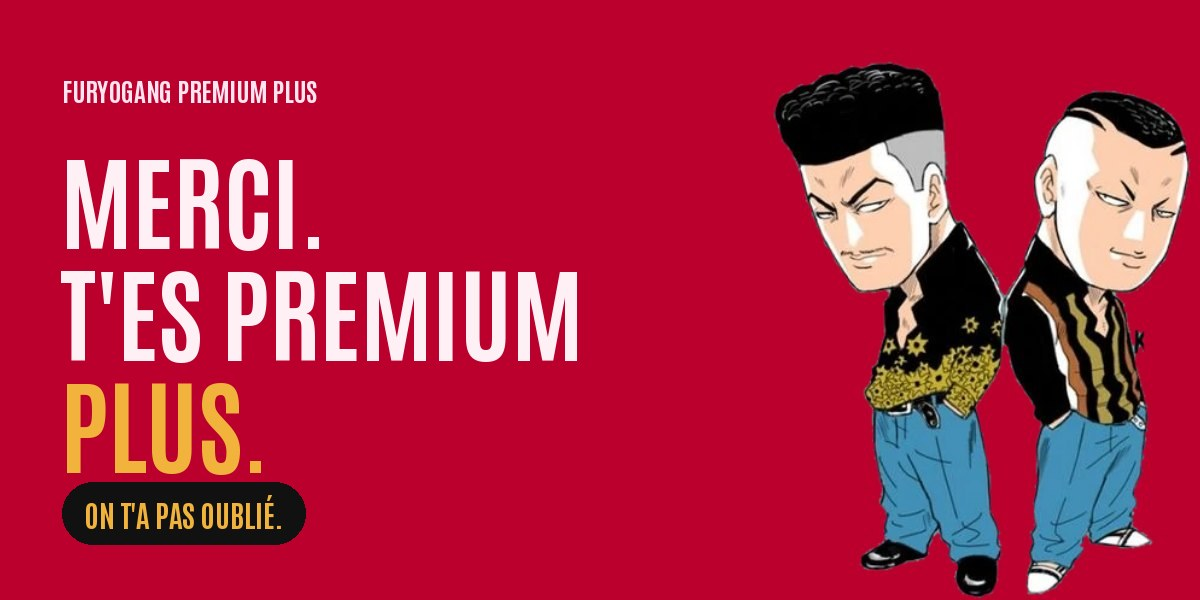
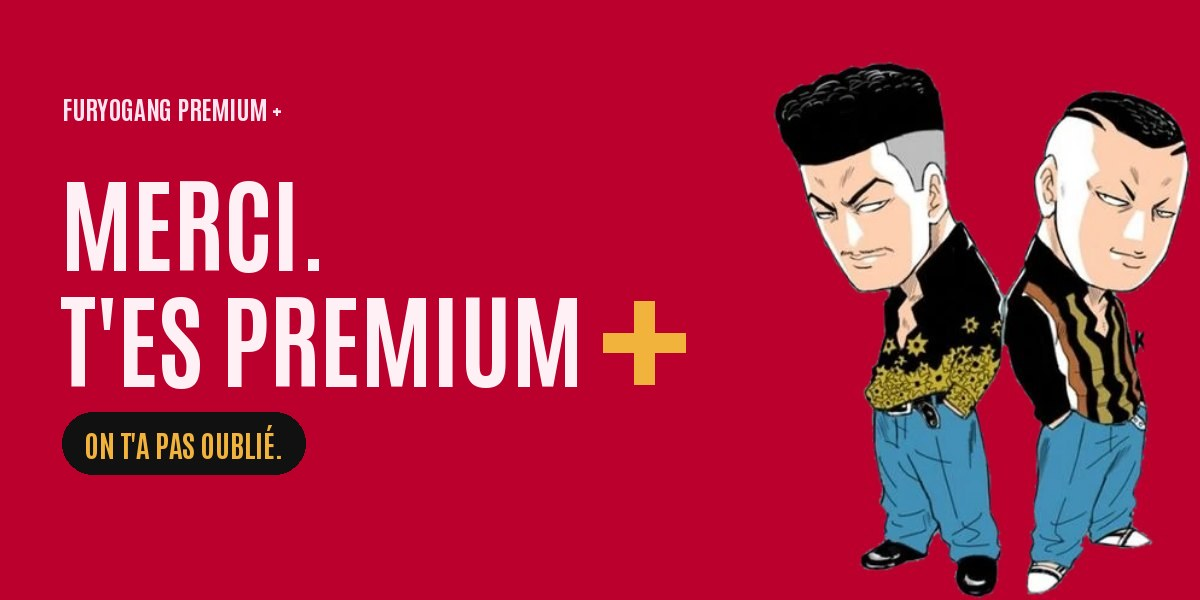
Premium Plus affiché « Premium + » (symbole plus doré) : profil, e-mail, fenêtre, page Premium, QG
Claude-Session: https://claude.ai/code/session_015Y4DU5ofPfgzQmWFYeu5Vg

Changed region(s): [[0.0308, 0.24, 0.5858, 0.93], [0.0308, 0.12, 0.2775, 0.21]]

diff --git a/lib/merci.js b/lib/merci.js
@@ -1,5 +1,5 @@
-// Remerciement des donateurs (Will, 25/10/2026) : e-mail envoyé avec Brevo + fenêtre « Merci, t'es Premium Plus » sur le site.
-// Premium Plus = Premium Donateur (Will, 02/11/2026) : un don de 25 € ou plus donne Premium Plus (1 an par 25 €, 4 ans à 100 €).
+// Remerciement des donateurs (Will, 25/10/2026) : e-mail envoyé avec Brevo + fenêtre « Merci, t'es Premium + » sur le site.
+// Premium + = Premium Donateur (Will, 02/11/2026) : un don de 25 € ou plus donne Premium + (1 an par 25 €, 4 ans à 100 €).
 // Les deux partent tout seuls quand Will enregistre un don dans QG > Premium & dons.
 //   envoyerMerci(env, d)  → { ok, id?, error? }   (secret Cloudflare BREVO_API_KEY ; MAIL_FROM optionnel, défaut contact@furyogang.com)
 //   poserFenetre(env, id, d) → la fenêtre s'ouvrira à la prochaine visite du membre (clé KV « merci:<id> »)
@@ -11,7 +11,7 @@ const eur = n => (Math.round(n * 100) / 100).toLocaleString("fr-FR") + " €";
 const esc = s => String(s == null ? "" : s).replace(/[&<>"']/g, c => ({ "&": "&amp;", "<": "&lt;", ">": "&gt;", '"': "&quot;", "'": "&#39;" }[c]));
 export const cleMerci = id => "merci:" + String(id || "").replace(/-/g, "");
 
-export function sujetMerci(d) { return d.ans ? `Merci ${d.pseudo}, t'es Premium Plus` : `Merci pour ton soutien, ${d.pseudo}`; }
+export function sujetMerci(d) { return d.ans ? `Merci ${d.pseudo}, t'es Premium +` : `Merci pour ton soutien, ${d.pseudo}`; }
 
 export function htmlMerci(d) {
   const P = !!d.ans, F = "font-family:Inter,Helvetica,Arial,sans-serif;";
@@ -20,22 +20,22 @@ export function htmlMerci(d) {
   const av = [0, 2, 4].map(i => `<tr><td width="50%" style="${F}padding:4px 0;font-size:14.5px;color:#D8D8DC"><span style="color:#F2B33D;font-weight:800">✓</span>&nbsp; ${avantages[i]}</td><td width="50%" style="${F}padding:4px 0;font-size:14.5px;color:#D8D8DC"><span style="color:#F2B33D;font-weight:800">✓</span>&nbsp; ${avantages[i + 1]}</td></tr>`).join("");
   const pill = (t, c, bg) => `<span style="${F}display:inline-block;padding:6px 12px;border-radius:15px;background:${bg};color:${c};font-size:13px;font-weight:700;letter-spacing:.04em;margin:0 6px 6px 0">${t}</span>`;
   const intro = P
-    ? `Ton don de <b style="color:#fff">${eur(d.montant)}</b> est bien arrivé. C'est enregistré : <b style="color:#fff">ton Premium Plus est activé pour ${d.ans} an${d.ans > 1 ? "s" : ""}</b>, et ton badge t'attend sur ton profil.`
+    ? `Ton don de <b style="color:#fff">${eur(d.montant)}</b> est bien arrivé. C'est enregistré : <b style="color:#fff">ton Premium + est activé pour ${d.ans} an${d.ans > 1 ? "s" : ""}</b>, et ton badge t'attend sur ton profil.`
     : `Ton don de <b style="color:#fff">${eur(d.montant)}</b> est bien arrivé. C'est enregistré, et ton badge de soutien t'attend sur ton profil.`;
-  const decembre = P && d.debut === "2026-12-01" ? `<p style="${F}margin:14px 0 0;font-size:14px;line-height:1.5;color:#9a9aa0;text-align:center">D'ici le 1er décembre, tout le monde est Premium : ton Premium Plus démarre après, rien n'est perdu.</p>` : "";
+  const decembre = P && d.debut === "2026-12-01" ? `<p style="${F}margin:14px 0 0;font-size:14px;line-height:1.5;color:#9a9aa0;text-align:center">D'ici le 1er décembre, tout le monde est Premium : ton Premium + démarre après, rien n'est perdu.</p>` : "";
   const profil = SITE + (d.slug ? "/membres/" + encodeURIComponent(d.slug) + "/" : "/ma-collection/");
   return `<!doctype html><html lang="fr"><head><meta charset="utf-8"><meta name="viewport" content="width=device-width,initial-scale=1"><meta name="color-scheme" content="dark"><title>${esc(sujetMerci(d))}</title></head>
 <body style="margin:0;padding:0;background:#e9e9ec">
 <table role="presentation" width="100%" cellpadding="0" cellspacing="0" style="background:#e9e9ec"><tr><td align="center" style="padding:28px 12px">
 <table role="presentation" width="600" cellpadding="0" cellspacing="0" style="width:100%;max-width:600px;background:#0b0b0c;border-radius:6px;overflow:hidden">
 <tr><td align="center" style="padding:24px 0 20px;border-bottom:1px solid #222"><img src="${SITE}/img/social/logo-blanc.png" alt="FuryoGang" height="40" style="height:40px;display:block;border:0"></td></tr>
-<tr><td><img src="${SITE}/img/mail/${P ? "merci-premium-plus" : "merci-soutien"}.jpg" width="600" alt="${P ? "Merci. T'es Premium Plus." : "Merci pour ton soutien."}" style="width:100%;height:auto;display:block;border:0"></td></tr>
+<tr><td><img src="${SITE}/img/mail/${P ? "merci-premium-plus" : "merci-soutien"}.jpg" width="600" alt="${P ? "Merci. T'es Premium +." : "Merci pour ton soutien."}" style="width:100%;height:auto;display:block;border:0"></td></tr>
 <tr><td style="padding:30px 36px 8px">
 <p style="${F}margin:0 0 16px;font-size:16px;line-height:1.6;color:#D8D8DC">Yo ${esc(d.pseudo)},</p>
 <p style="${F}margin:0 0 18px;font-size:16px;line-height:1.6;color:#D8D8DC">${intro}</p>
-<div style="margin:0 0 18px">${P ? pill("✚ PREMIUM PLUS", "#F2B33D", "#3a2e12") : ""}${d.badge ? pill("♛ " + esc(d.badge), "#F2B33D", "#3a2e12") : ""}</div>
+<div style="margin:0 0 18px">${P ? pill("✚ PREMIUM +", "#F2B33D", "#3a2e12") : ""}${d.badge ? pill("♛ " + esc(d.badge), "#F2B33D", "#3a2e12") : ""}</div>
 <table role="presentation" width="100%" cellpadding="0" cellspacing="0" style="background:#151517;border-radius:14px"><tr><td style="padding:4px 20px">
-<table role="presentation" width="100%" cellpadding="0" cellspacing="0">${ligne("Ton soutien", eur(d.montant))}${P ? ligne("Premium Plus", "du " + dateLongue(d.debut) + " au " + dateLongue(d.fin)) : ""}${d.num ? ligne("Membre", "n°" + d.num).replace(/border-bottom:1px dashed #2c2c2f;/g, "") : ""}</table>
+<table role="presentation" width="100%" cellpadding="0" cellspacing="0">${ligne("Ton soutien", eur(d.montant))}${P ? ligne("Premium +", "du " + dateLongue(d.debut) + " au " + dateLongue(d.fin)) : ""}${d.num ? ligne("Membre", "n°" + d.num).replace(/border-bottom:1px dashed #2c2c2f;/g, "") : ""}</table>
 </td></tr></table>
 ${P ? `<p style="font-family:'Arial Narrow',Arial,sans-serif;margin:26px 0 10px;font-size:21px;font-weight:700;letter-spacing:.02em;color:#fff;text-transform:uppercase">Ce que tu débloques</p><table role="presentation" width="100%" cellpadding="0" cellspacing="0">${av}</table>` : ""}
 <table role="presentation" width="100%" cellpadding="0" cellspacing="0" style="margin:26px 0 0"><tr><td align="center" style="background:#F2B33D;border-radius:27px"><a href="${profil}" style="${F}display:block;padding:16px 0;color:#000;font-size:16px;font-weight:700;text-decoration:none">Voir mon profil</a></td></tr></table>
@@ -49,7 +49,7 @@ ${decembre}
 
 export function texteMerci(d) {
   return [`Yo ${d.pseudo},`, "", `Ton don de ${eur(d.montant)} est bien arrivé.`,
-    d.ans ? `Ton Premium Plus est activé pour ${d.ans} an${d.ans > 1 ? "s" : ""} : du ${dateLongue(d.debut)} au ${dateLongue(d.fin)}.` : "Ton badge de soutien t'attend sur ton profil.",
+    d.ans ? `Ton Premium + est activé pour ${d.ans} an${d.ans > 1 ? "s" : ""} : du ${dateLongue(d.debut)} au ${dateLongue(d.fin)}.` : "Ton badge de soutien t'attend sur ton profil.",
     d.badge ? `Badge : ${d.badge}` : "", "", "FuryoGang, c'est un passionné, pas une boîte. Merci de faire vivre le gang.", "FuryoGang · " + SITE].filter((x, i, a) => x !== "" || a[i - 1] !== "").join("\n");
 }
 

diff --git a/premium/index.html b/premium/index.html
@@ -187,20 +187,20 @@ td small{color:var(--mut);font-size:12.5px;font-weight:600}
   </section>
 
   <section class="don" id="dons" style="scroll-margin-top:120px"><img class="ch dj" src="/img/don/jinnai.webp" alt=""><span class="bul dk">On rackette pas.<br>On propose.</span><div class="dt"><small>Premium avant Premium</small>
-    <h2>Un don, et t'es Premium Plus</h2>
-    <p class="in">C'est un don, pas un abonnement : il fait vivre le site, et à partir de 25 € <b>t'es Premium Plus</b> : tout le Premium, plus les interviews une semaine avant et le concours des figurines. Chaque donateur reçoit son badge sur son profil, selon le montant.</p></div>
+    <h2>Un don, et t'es Premium +</h2>
+    <p class="in">C'est un don, pas un abonnement : il fait vivre le site, et à partir de 25 € <b>t'es Premium +</b> : tout le Premium, plus les interviews une semaine avant et le concours des figurines. Chaque donateur reçoit son badge sur son profil, selon le montant.</p></div>
     <div class="tiers">
       <div class="ti"><b>Libre</b><span>Le montant que tu veux</span><p>Un coup de main pour le gang.</p><em class="bdg" style="color:#98989D;background:#98989D26"><svg viewBox="0 0 24 24" fill="none" stroke="currentColor" stroke-width="2" stroke-linecap="round" stroke-linejoin="round" style="width:14px;height:14px"><path d="M12 3l7 3v5c0 4.5-3 8.3-7 10-4-1.7-7-5.5-7-10V6z"/></svg>Badge Kobun</em><button type="button" class="btn b3" data-don="libre">Je soutiens</button></div>
-      <div class="ti"><b>25 €</b><span>Premium Plus 1 an</span><p>Premium Plus à partir du 1er décembre</p><em class="bdg" style="color:#E0955F;background:#E0955F26"><svg viewBox="0 0 24 24" fill="none" stroke="currentColor" stroke-width="2" stroke-linecap="round" stroke-linejoin="round" style="width:14px;height:14px"><path d="M14.5 17.5L3 6V3h3l11.5 11.5M13 19l6-6M16 16l4 4M19 21l2-2M14.5 6.5L18 3h3v3l-3.5 3.5M5 14l4 4M7 17l-3 3M3 19l2 2"/></svg>Badge Bancho</em><button type="button" class="btn b3" data-don="25">Je soutiens</button></div>
-      <div class="ti"><b>50 €</b><span>Premium Plus 2 ans</span><p>Premium Plus à partir du 1er décembre</p><em class="bdg" style="color:#B38CFF;background:#B38CFF26"><svg viewBox="0 0 24 24" fill="none" stroke="currentColor" stroke-width="2" stroke-linecap="round" stroke-linejoin="round" style="width:14px;height:14px"><path d="M3 8l4.5 4L12 5l4.5 7L21 8l-2 11H5z"/></svg>Badge Shogun</em><button type="button" class="btn b3" data-don="50">Je soutiens</button></div>
-      <div class="ti top"><b>100 €</b><span>Premium Plus 4 ans</span><p>Premium Plus à partir du 1er décembre</p><em class="bdg" style="color:#E54839;background:#E5483926"><svg viewBox="0 0 24 24" fill="none" stroke="currentColor" stroke-width="2" stroke-linecap="round" stroke-linejoin="round" style="width:14px;height:14px"><path d="M12 21c-3.9 0-7-2.8-7-6.6 0-3.1 2.2-5.3 3.6-7.2.4 1.6 1.4 2.8 2.6 3.3C11 7 12.5 4.6 15 3c-.3 2.6.8 4.4 2.2 6 1.1 1.3 1.8 2.9 1.8 4.6C19 18 15.9 21 12 21z"/></svg>Badge Oyabun</em><button type="button" class="btn b3" data-don="100">Je soutiens</button></div>
+      <div class="ti"><b>25 €</b><span>Premium + 1 an</span><p>Premium + à partir du 1er décembre</p><em class="bdg" style="color:#E0955F;background:#E0955F26"><svg viewBox="0 0 24 24" fill="none" stroke="currentColor" stroke-width="2" stroke-linecap="round" stroke-linejoin="round" style="width:14px;height:14px"><path d="M14.5 17.5L3 6V3h3l11.5 11.5M13 19l6-6M16 16l4 4M19 21l2-2M14.5 6.5L18 3h3v3l-3.5 3.5M5 14l4 4M7 17l-3 3M3 19l2 2"/></svg>Badge Bancho</em><button type="button" class="btn b3" data-don="25">Je soutiens</button></div>
+      <div class="ti"><b>50 €</b><span>Premium + 2 ans</span><p>Premium + à partir du 1er décembre</p><em class="bdg" style="color:#B38CFF;background:#B38CFF26"><svg viewBox="0 0 24 24" fill="none" stroke="currentColor" stroke-width="2" stroke-linecap="round" stroke-linejoin="round" style="width:14px;height:14px"><path d="M3 8l4.5 4L12 5l4.5 7L21 8l-2 11H5z"/></svg>Badge Shogun</em><button type="button" class="btn b3" data-don="50">Je soutiens</button></div>
+      <div class="ti top"><b>100 €</b><span>Premium + 4 ans</span><p>Premium + à partir du 1er décembre</p><em class="bdg" style="color:#E54839;background:#E5483926"><svg viewBox="0 0 24 24" fill="none" stroke="currentColor" stroke-width="2" stroke-linecap="round" stroke-linejoin="round" style="width:14px;height:14px"><path d="M12 21c-3.9 0-7-2.8-7-6.6 0-3.1 2.2-5.3 3.6-7.2.4 1.6 1.4 2.8 2.6 3.3C11 7 12.5 4.6 15 3c-.3 2.6.8 4.4 2.2 6 1.1 1.3 1.8 2.9 1.8 4.6C19 18 15.9 21 12 21z"/></svg>Badge Oyabun</em><button type="button" class="btn b3" data-don="100">Je soutiens</button></div>
     </div>
     <p class="note">Connecte-toi d'abord : le bouton enregistre ton don à ton nom, puis ouvre PayPal (carte bancaire, Apple Pay ou compte PayPal), où tu tapes le montant de ton choix et ton pseudo. On active ton Premium (à partir du 1er décembre) et ton badge à la main.</p>
   </section>
 
   <section class="faq"><h2>Questions</h2>
     <details><summary>Le site va-t-il devenir payant ?</summary><p>Non. Les actualités, les fiches, le calendrier et ta collection de tomes possédés restent gratuits. Premium ajoute l'expérience communautaire.</p></details>
-    <details><summary>Combien coûte Premium ?</summary><p>2 € par mois, pour tout le monde, et ça ne bougera pas. Un don de 25, 50 ou 100 € te fait passer <b>Premium Plus</b> pendant 1, 2 ou 4 ans (+1 an par tranche de 25 €) : tout le Premium, plus les interviews une semaine avant tout le monde et le concours des figurines. Ton badge de donateur, lui, reste pour toujours.</p></details>
+    <details><summary>Combien coûte Premium ?</summary><p>2 € par mois, pour tout le monde, et ça ne bougera pas. Un don de 25, 50 ou 100 € te fait passer <b>Premium +</b> pendant 1, 2 ou 4 ans (+1 an par tranche de 25 €) : tout le Premium, plus les interviews une semaine avant tout le monde et le concours des figurines. Ton badge de donateur, lui, reste pour toujours.</p></details>
     <details><summary>Comment marche le tirage au sort ?</summary><p>Bientôt, des tirages au sort réservés aux membres Premium pour gagner un tome ou une figurine. Tous les membres Premium participent, sans rien faire de plus, et sans rien payer en plus : c'est compris dans les 2 € par mois.</p></details>
     <details><summary>Que se passe-t-il à la fin de ma période Premium ?</summary><p>Tu repasses en gratuit : tes tomes possédés restent, et tes listes Premium sont gardées jusqu'à ton retour.</p></details>
     <details><summary>Je n'ai pas encore de compte</summary><p>Crée ton compte gratuitement avec Google depuis l'icône en haut à droite, puis fais ton soutien avec la même adresse e-mail.</p></details>

diff --git a/site/merci.js b/site/merci.js
@@ -1,4 +1,4 @@
-// Fenêtre « Merci, t'es Premium Plus » (Premium Plus = Premium Donateur, Will 02/11/2026) (maquette validée par Will le 25/10/2026) : s'ouvre une fois, à la visite qui suit
+// Fenêtre « Merci, t'es Premium + » (Premium + = Premium Donateur, Will 02/11/2026) (maquette validée par Will le 25/10/2026) : s'ouvre une fois, à la visite qui suit
 // l'enregistrement d'un don dans le QG. Chargée par header.js quand /api/auth/me renvoie « merci ».
 (function () {
   var TICK = '<svg viewBox="0 0 40 40" aria-hidden="true"><path fill="#0095F6" d="M19.998 3.094 14.638 0l-2.972 5.15H5.432v6.354L0 14.64 3.094 20 0 25.359l5.432 3.137v5.905h5.975L14.638 40l5.36-3.094L25.358 40l3.232-5.6h6.162v-6.01L40 25.359 36.905 20 40 14.641l-5.248-3.03v-6.46h-6.419L25.358 0l-5.36 3.094Z"/><path fill="#fff" d="m17.204 27.822-7.1-7.115 2.2-2.193 4.9 4.909 10.396-10.414 2.2 2.193Z"/></svg>';
@@ -14,7 +14,7 @@
     ".fmc .top small{display:block;margin:0;font:700 11.5px Inter,sans-serif;letter-spacing:.12em;text-transform:uppercase;opacity:.85;color:#fff}" +
     ".fmc .bul{display:inline-block;margin:16px 0 0;background:#000;color:#F2B33D;font:700 17px/1.05 Antonio,'Arial Narrow',sans-serif;letter-spacing:.03em;text-transform:uppercase;padding:8px 12px;border-radius:14px;transform:rotate(-3deg);white-space:nowrap}" +
     ".fmc .top h2{display:block;margin:18px 0 0;padding:0;font:700 44px/.95 Antonio,'Arial Narrow',sans-serif;text-transform:uppercase;color:#fff;letter-spacing:0;text-align:left;border:0;background:none}" +
-    ".fmc .top h2 span{display:block;white-space:nowrap}.fmc .top h2 .gd{color:#F2B33D}" +
+    ".fmc .top h2 span{display:block;white-space:nowrap}.fmc .top h2 .gd{color:#F2B33D;font-weight:inherit}" +
     ".fmc .x{position:absolute;top:12px;right:12px;z-index:3;width:34px;height:34px;border:0;border-radius:17px;background:rgba(0,0,0,.6);color:#fff;font:700 18px Inter,sans-serif;cursor:pointer;padding:0}" +
     ".fmc .bd{padding:20px 24px 24px}" +
     ".fmc .st{display:flex;flex-wrap:wrap;gap:8px;margin-bottom:16px}" +
@@ -41,19 +41,19 @@
   var titre = function (pseudo, P) {
     var mob = window.innerWidth <= 520, max = mob ? 30 : 44, w = mob ? 150 : 250, min = mob ? 18 : 24;
     var t = function (txt, k) { var fs = Math.max(min, Math.min(max, Math.floor(w / (Math.max(String(txt).length, 6) * 0.46)))); return '<span style="font-size:' + fs + 'px">' + esc(txt) + "</span>"; };
-    return t("Merci") + t((pseudo || "") + ",") + (P ? t("t'es Premium") + t("Plus").replace("<span ", '<span class="gd" ') : t("merci du soutien"));
+    return t("Merci") + t((pseudo || "") + ",") + (P ? t("t'es Premium +").replace("+</span>", '<b class="gd">+</b></span>') : t("merci du soutien"));
   };
   window.FG_MERCI = function (d) {
     if (!d || document.querySelector(".fmc-o")) return;
     var P = !!d.ans;
     if (!document.getElementById("fmc-css")) { var s = document.createElement("style"); s.id = "fmc-css"; s.textContent = CSS; document.head.appendChild(s); }
     var txt = P
-      ? "Ton don est bien arrivé. <b>Ton Premium Plus est activé pour " + d.ans + " an" + (d.ans > 1 ? "s" : "") + "</b>" + (d.debut === "2026-12-01" ? ", à partir du 1er décembre (d'ici là, tout le monde est Premium)" : "") + ". Ton badge est déjà sur ton profil."
+      ? "Ton don est bien arrivé. <b>Ton Premium + est activé pour " + d.ans + " an" + (d.ans > 1 ? "s" : "") + "</b>" + (d.debut === "2026-12-01" ? ", à partir du 1er décembre (d'ici là, tout le monde est Premium)" : "") + ". Ton badge est déjà sur ton profil."
       : "Ton don est bien arrivé. <b>Ton badge de soutien</b> est déjà sur ton profil.";
     var o = document.createElement("div"); o.className = "fmc-o";
-    o.innerHTML = '<div class="fmc" role="dialog" aria-label="Merci"><div class="top"><button type="button" class="x" aria-label="Fermer">×</button><img class="im" src="/img/don/duo.webp" alt=""><div class="tx"><small>FuryoGang Premium Plus</small><span class="bul">On t\'a pas oublié.</span>' +
+    o.innerHTML = '<div class="fmc" role="dialog" aria-label="Merci"><div class="top"><button type="button" class="x" aria-label="Fermer">×</button><img class="im" src="/img/don/duo.webp" alt=""><div class="tx"><small>FuryoGang Premium +</small><span class="bul">On t\'a pas oublié.</span>' +
       "<h2>" + titre(d.pseudo, P) + "</h2></div></div>" +
-      '<div class="bd"><div class="st">' + (P ? '<span class="pr">' + TICK.replace('fill="#0095F6"', 'fill="#F2B33D"') + "Premium Plus</span>" : "") + (d.badge ? '<span class="bg">' + CROWN + esc(d.badge) + "</span>" : "") + "</div>" +
+      '<div class="bd"><div class="st">' + (P ? '<span class="pr">' + TICK.replace('fill="#0095F6"', 'fill="#F2B33D"') + "Premium +</span>" : "") + (d.badge ? '<span class="bg">' + CROWN + esc(d.badge) + "</span>" : "") + "</div>" +
       '<div class="cd"><span><b>' + eur(d.montant || 0) + "</b><i>Ton soutien</i></span>" + (P ? "<span><b>" + court(d.debut) + "</b><i>Début</i></span><span><b>" + court(d.fin) + "</b><i>Fin</i></span>" : "") + "</div>" +
       "<p>" + txt + "</p>" +
       (P ? '<div class="ul"><span>Interviews une semaine avant</span><span>Concours des figurines</span><span>Lu, Envie, Panier</span><span>Statistiques</span><span>Classements</span><span>+ tout le Premium</span></div>' : "") +

diff --git a/hq/index.html b/hq/index.html
@@ -572,7 +572,7 @@ h1{font:700 64px/.92 "FGAntonio";text-transform:uppercase;margin:0 0 6px}
 
   <section class="sec" id="dons">
     <h1>Premium &amp; dons</h1>
-    <p class="lead">Un don arrive sur PayPal : retrouve le membre (n°, e-mail ou pseudo), entre le montant, et c'est tout. Le site calcule la durée de Premium Plus (25 € = 1 an, 50 € = 2 ans, 100 € = 4 ans, +1 an par 25 € au-delà), prolonge la date de fin, ajoute le don au total et pose le badge donateur du palier atteint (Kobun, Bancho, Shogun, Oyabun). Le badge Premium s'affiche tout seul tant que la date de fin n'est pas passée. Le Premium payé démarre le 1er décembre.</p>
+    <p class="lead">Un don arrive sur PayPal : retrouve le membre (n°, e-mail ou pseudo), entre le montant, et c'est tout. Le site calcule la durée de Premium + (25 € = 1 an, 50 € = 2 ans, 100 € = 4 ans, +1 an par 25 € au-delà), prolonge la date de fin, ajoute le don au total et pose le badge donateur du palier atteint (Kobun, Bancho, Shogun, Oyabun). Le badge Premium s'affiche tout seul tant que la date de fin n'est pas passée. Le Premium payé démarre le 1er décembre.</p>
     <div class="pm-k" id="pmk"></div>
     <form class="pm-f" id="pmf" autocomplete="off">
       <h3>Enregistrer un don</h3>
@@ -947,7 +947,7 @@ if (window.FGQuick) FGQuick.mount(document.getElementById("hq-av"));
     var a = ansPour(mt), deb = d > "2026-12-01" ? d : "2026-12-01"; if (m.fin && m.fin >= deb) { var x = new Date(m.fin + "T12:00:00Z"); x.setUTCDate(x.getUTCDate() + 1); deb = x.toISOString().slice(0, 10); }
     var fin = ""; if (a) { var y = new Date(deb + "T12:00:00Z"); y.setUTCFullYear(y.getUTCFullYear() + a); y.setUTCDate(y.getUTCDate() - 1); fin = y.toISOString().slice(0, 10); }
     var tot = (m.dons || 0) + mt, pal = tot >= 100 ? "Oyabun" : tot >= 50 ? "Shogun" : tot >= 25 ? "Bancho" : "Kobun";
-    $("#pmprev").textContent = m.pseudo + " (n°" + m.num + ") → " + (a ? a + " an" + (a > 1 ? "s" : "") + " de Premium Plus, du " + fr(deb) + " au " + fr(fin) : "pas de Premium Plus (moins de 25 €)") + " · total donné " + tot.toLocaleString("fr-FR") + " € · badge " + pal;
+    $("#pmprev").textContent = m.pseudo + " (n°" + m.num + ") → " + (a ? a + " an" + (a > 1 ? "s" : "") + " de Premium +, du " + fr(deb) + " au " + fr(fin) : "pas de Premium + (moins de 25 €)") + " · total donné " + tot.toLocaleString("fr-FR") + " € · badge " + pal;
   }
   function pmLoad() {
     fetch("/api/admin/premium", { credentials: "same-origin", cache: "no-store" }).then(function (r) { return r.json(); }).then(function (d) {

diff --git a/membres-fiche/index.html b/membres-fiche/index.html
@@ -257,10 +257,10 @@ function draw() {
   const cam = P.moi ? `<button type="button" class="cam" data-cam aria-label="Changer ma photo" title="Changer ma photo">${CAM}</button>` : "";
   const avw = cls => `<div class="avw">${avt.replace('class="avt"', `class="avt${cls}"`)}${cam}</div>`;
   // Statut à côté du pseudo (Will, 25/10/2026) : même coche bleue, texte selon le statut. Admin > VIP (à vie, retiré à la main) > Premium (payé).
-  // Premium Plus (donateurs, Will 02/11/2026) : coche et texte dorés.
-  const statut = m.badges.some(b => b.r === "admin") ? "Admin" : m.badges.some(b => b.r === "vip") ? "VIP" : m.plus ? "Premium Plus" : m.badges.some(b => b.r === "premium") ? "Premium" : "";
+  // Premium + (donateurs, Will 02/11/2026) : coche et texte dorés.
+  const statut = m.badges.some(b => b.r === "admin") ? "Admin" : m.badges.some(b => b.r === "vip") ? "VIP" : m.plus ? "Premium +" : m.badges.some(b => b.r === "premium") ? "Premium" : "";
   // VIP en rouge FuryoGang (Will, 25/10/2026) ; Admin et Premium restent en bleu.
-  const prem = statut ? `<span class="prem${statut === "VIP" ? " vip" : statut === "Premium Plus" ? " plus" : ""}">${statut === "VIP" ? PREM.replace('fill="#0095F6"', 'fill="#E5483A"') : statut === "Premium Plus" ? PREM.replace('fill="#0095F6"', 'fill="#F2B33D"') : PREM}${statut}</span>` : "";
+  const prem = statut ? `<span class="prem${statut === "VIP" ? " vip" : statut === "Premium +" ? " plus" : ""}">${statut === "VIP" ? PREM.replace('fill="#0095F6"', 'fill="#E5483A"') : statut === "Premium +" ? PREM.replace('fill="#0095F6"', 'fill="#F2B33D"') : PREM}${statut}</span>` : "";
   const ico = socIcons(r);
   const p4 = PF ? `<div class="p4">
       <div class="band${rang1 ? "" : " n"}">${rang1 ? CROWN : ""}<span>${P.rang ? `N°${P.rang} du classement · ` : ""}Membre n°${m.num || "?"}</span></div>
